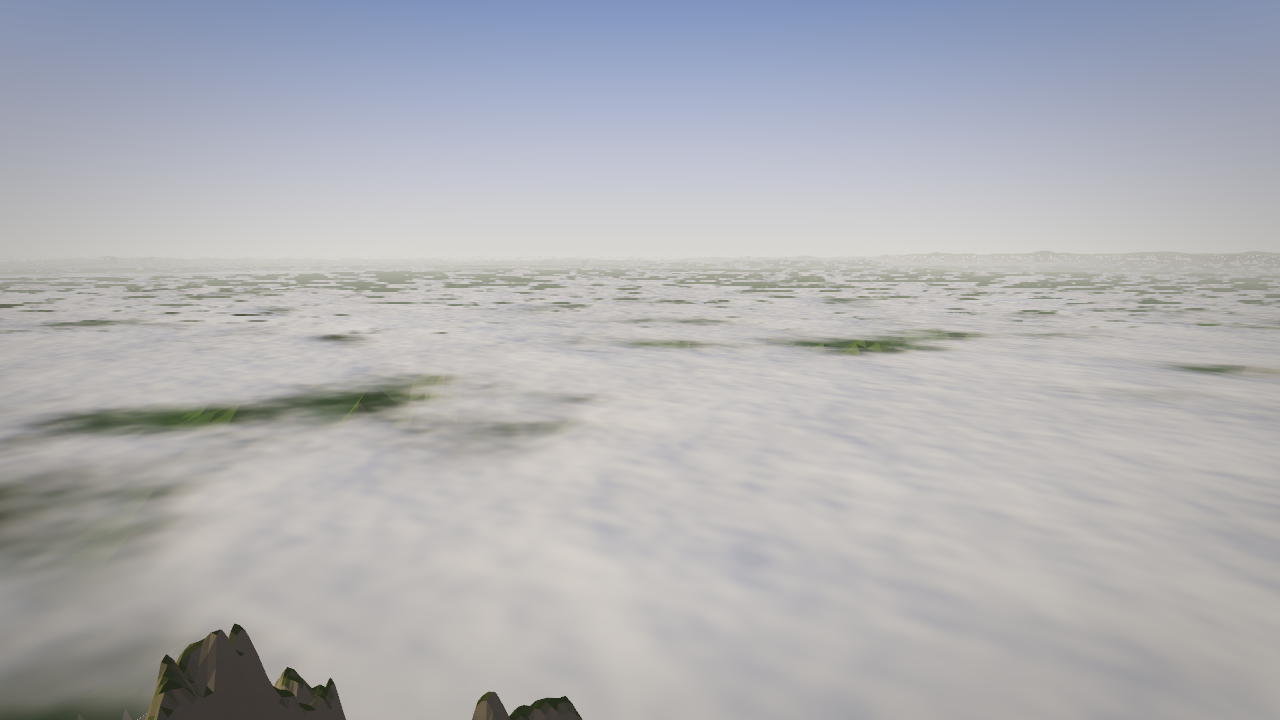
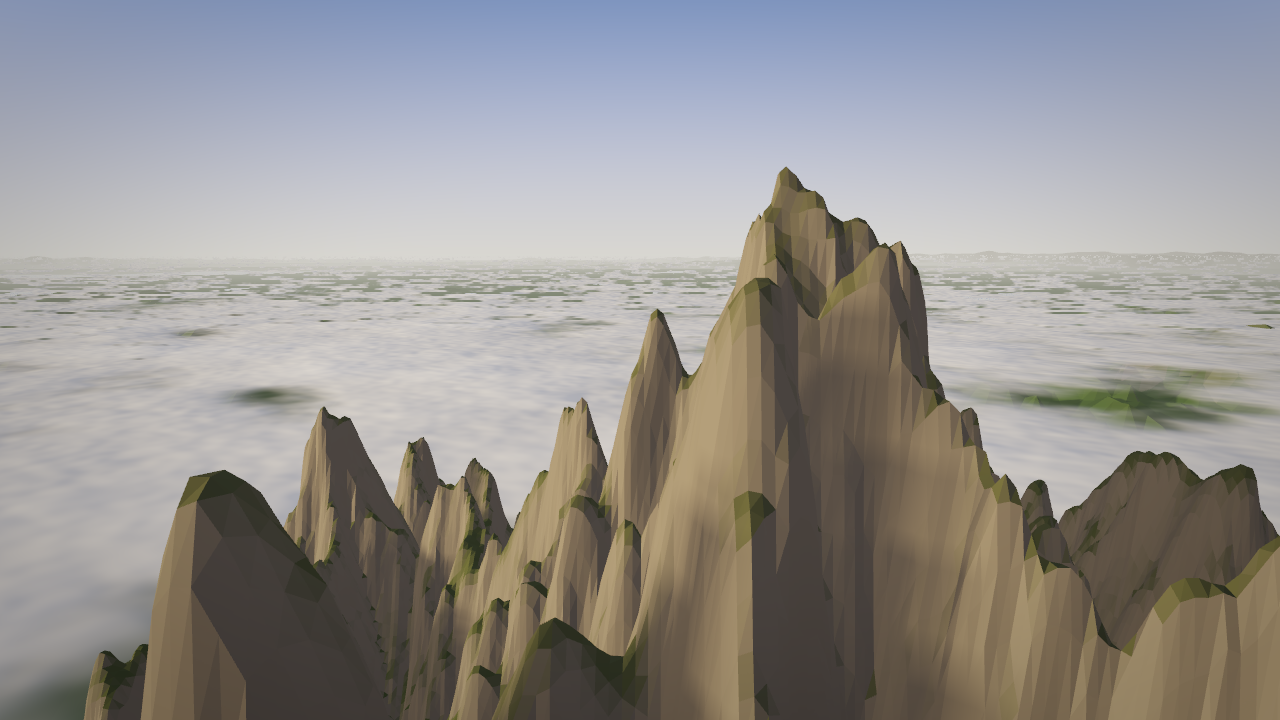
F81: the look-ahead is the scene's, and Huangshan flies among its peaks
A scene file may say look_ahead_km (default 8); the altitude controller
reads the heading line at eight even steps out to it. Huangshan reads
1.5 km with its massif keys 150 m up, so Lotus Peak stands above the
horizon in the still, now taken at 20 s. A swath across the heading was
tried and refused: it lifts the camera out of the gorges.

diff --git a/app/src/main.ts b/app/src/main.ts
@@ -440,7 +440,7 @@ function recordFrame(dt: number): void {
   r.northM += Math.cos(r.headingRad) * ms * dt;
   const s = film?.scenes[current] ?? null;
   const band = s?.band ?? { minM: 50, maxM: 6000 };
-  const alt = altitude.update(dt, r.eastM, r.northM, r.headingRad, r.aboveGroundM, band, groundAt);
+  const alt = altitude.update(dt, r.eastM, r.northM, r.headingRad, r.aboveGroundM, band, groundAt, s?.lookAheadKm);
   placeAt(r.eastM, r.northM, alt, r.headingRad, 0);
   const { latDeg, lonDeg } = unprojectAlbers(r.eastM, r.northM);
   el("recorder").textContent =
@@ -479,10 +479,11 @@ function frame(now: number): void {
     el("title").hidden = true;
     el("caption").textContent = "";
     if (pinned.aboveGroundM !== null) {
-      const band = film?.scenes[Math.max(0, current)]?.band ?? { minM: 50, maxM: 6000 };
+      const scene = film?.scenes[Math.max(0, current)];
+      const band = scene?.band ?? { minM: 50, maxM: 6000 };
       // Placed afresh, not eased: a zero step would hold the first frame's guess.
       altitude.reset();
-      pinned.altitudeM = altitude.update(0, pinned.eastM, pinned.northM, pinned.headingRad, pinned.aboveGroundM, band, groundAt);
+      pinned.altitudeM = altitude.update(0, pinned.eastM, pinned.northM, pinned.headingRad, pinned.aboveGroundM, band, groundAt, scene?.lookAheadKm);
     }
     placeAt(pinned.eastM, pinned.northM, pinned.altitudeM, pinned.headingRad, 0, pinned.clockMinutes, pinned.pitchDeg);
     rig.render();
@@ -508,7 +509,7 @@ function frame(now: number): void {
     // The map and the title over the first frame of the rail, which also
     // streams the ground the flight is about to need.
     const start = railAtKm(rails[current]!, 0);
-    const alt = altitude.update(0, start.eastM, start.northM, start.headingRad, start.aboveGroundM, s.band, groundAt);
+    const alt = altitude.update(0, start.eastM, start.northM, start.headingRad, start.aboveGroundM, s.band, groundAt, s.lookAheadKm);
     placeAt(start.eastM, start.northM, alt, start.headingRad, 0, clockNow(), start.pitchDeg);
     el("title").hidden = false;
     el("caption").textContent = "";
@@ -523,7 +524,7 @@ function frame(now: number): void {
     );
     lastState = state;
     lastFlightS = pos.flightS;
-    const alt = altitude.update(held ? 0 : dt, state.eastM, state.northM, state.headingRad, state.aboveGroundM, s.band, groundAt);
+    const alt = altitude.update(held ? 0 : dt, state.eastM, state.northM, state.headingRad, state.aboveGroundM, s.band, groundAt, s.lookAheadKm);
     placeAt(state.eastM, state.northM, alt, state.headingRad, state.bankRad, clockNow(), state.pitchDeg);
     el("caption").textContent = captionAt(s, pos.flightS);
     el("auto").classList.toggle("on", state.auto);
@@ -613,7 +614,7 @@ if (import.meta.env.DEV) {
       const fix = railAtKm(rail, km);
       const s = film!.scenes[i]!;
       altitude.reset();
-      const alt = altitude.update(0, fix.eastM, fix.northM, fix.headingRad, fix.aboveGroundM, s.band, groundAt);
+      const alt = altitude.update(0, fix.eastM, fix.northM, fix.headingRad, fix.aboveGroundM, s.band, groundAt, s.lookAheadKm);
       pinned = {
         eastM: fix.eastM,
         northM: fix.northM,

diff --git a/engine/src/film/altitude.ts b/engine/src/film/altitude.ts
@@ -4,25 +4,51 @@
  * before it arrives rather than at it, and moves smoothly, with a rate cap so
  * a step in the data is a rise on screen rather than a jump.
  *
+ * How far ahead it looks is the scene's to say (F79, F81): eight kilometres
+ * keeps the camera over everything on the plateau, while over a massif of
+ * spires it must be short, or the camera sits above every peak in reach and
+ * the scene is a map. A short look-ahead trusts the rate cap and the band's
+ * floor for the spire that arrives between samples.
+ *
+ * It reads along the heading line only. A swath out to the frame's edges
+ * was tried and refused (F81): in a gorge the walls beside the line are the
+ * picture, and a controller that climbs for them puts the camera at the
+ * band's ceiling for a third of the first bend.
+ *
  * Nobody can hit a mountain, dive into the sea, or drift into the sky: the
  * result is clamped to the scene's band above the ground directly below.
  */
 import type { Band } from "./scene.js";
 
 export interface AltitudeOptions {
-  /** Distances ahead along the heading the ground is read at, real km. */
-  readonly lookAheadKm: readonly number[];
+  /** How far ahead along the heading the ground is read, real km, unless the scene says. */
+  readonly lookAheadKm: number;
   /** Time constant of the approach to the target, seconds. */
   readonly tauS: number;
   /** The most the altitude may change in a second, real metres. */
   readonly maxRateMs: number;
 }
 
+/** The film's look-ahead unless a scene says otherwise, real km. */
+export const DEFAULT_LOOK_AHEAD_KM = 8;
+
 export const DEFAULT_ALTITUDE: AltitudeOptions = {
-  lookAheadKm: [0, 1.5, 4, 8],
+  lookAheadKm: DEFAULT_LOOK_AHEAD_KM,
   tauS: 2.5,
   maxRateMs: 400,
 };
+
+/** Ground reads per update beyond the one under the camera. */
+export const LOOK_AHEAD_SAMPLES = 8;
+
+/**
+ * Where the ground is read ahead of the camera: under it, and at even steps
+ * out to the look-ahead, so a short look-ahead over a 30 m grid reads every
+ * spire on the way rather than the ones its few samples happen to hit.
+ */
+export function lookAheadSamplesKm(farKm: number): readonly number[] {
+  return Array.from({ length: LOOK_AHEAD_SAMPLES + 1 }, (_, i) => (farKm * i) / LOOK_AHEAD_SAMPLES);
+}
 
 /** The ground at a point, or null where no tile is resident yet. */
 export type GroundReader = (eastM: number, northM: number) => number | null;
@@ -53,6 +79,7 @@ export class AltitudeController {
     aboveGroundM: number,
     band: Band,
     ground: GroundReader,
+    lookAheadKm: number = this.options.lookAheadKm,
   ): number {
     const o = this.options;
     const here = ground(eastM, northM);
@@ -64,7 +91,7 @@ export class AltitudeController {
     let highest = under;
     const fe = Math.sin(headingRad);
     const fn = Math.cos(headingRad);
-    for (const km of o.lookAheadKm) {
+    for (const km of lookAheadSamplesKm(lookAheadKm)) {
       if (km === 0) continue;
       const g = ground(eastM + fe * km * 1000, northM + fn * km * 1000);
       if (g !== null && g > highest) highest = g;

diff --git a/content/scenes.ts b/content/scenes.ts
@@ -24,6 +24,7 @@ import {
   type RailKey,
   type Scene,
 } from "../engine/src/film/scene.js";
+import { DEFAULT_LOOK_AHEAD_KM } from "../engine/src/film/altitude.js";
 import { DEFAULT_RAIL } from "../engine/src/film/rail.js";
 import { FLIGHT_S } from "../engine/src/film/timeline.js";
 import { dayOfYear, sunPosition } from "../engine/src/gfx/solar.js";
@@ -39,6 +40,8 @@ export const CAPTION_SHOW_S = 6;
 export const SCENES_IN_A_FILM = 9;
 /** How far below level the camera looks unless the scene says otherwise. */
 export const DEFAULT_PITCH_DEG = 6;
+/** The look-ahead a scene may ask for, real km: shorter reads as a wall, longer as a map. */
+export const LOOK_AHEAD_RANGE_KM = [0.5, 30] as const;
 /** The sun may be this far below the horizon at the scene's first key: civil twilight. */
 export const MIN_SUN_ELEVATION_DEG = -6;
 
@@ -107,6 +110,13 @@ export function sceneFromRaw(raw: unknown, name: string): { scene: Scene | null;
   if (raw.pitch_deg !== undefined) {
     if (isNum(raw.pitch_deg) && raw.pitch_deg >= 0 && raw.pitch_deg <= 45) pitchDeg = raw.pitch_deg;
     else add("pitch_deg", "degrees below level, 0 to 45");
+  }
+
+  let lookAheadKm = DEFAULT_LOOK_AHEAD_KM;
+  if (raw.look_ahead_km !== undefined) {
+    if (isNum(raw.look_ahead_km) && raw.look_ahead_km >= LOOK_AHEAD_RANGE_KM[0] && raw.look_ahead_km <= LOOK_AHEAD_RANGE_KM[1])
+      lookAheadKm = raw.look_ahead_km;
+    else add("look_ahead_km", `real kilometres the altitude reads ahead, ${LOOK_AHEAD_RANGE_KM[0]} to ${LOOK_AHEAD_RANGE_KM[1]}`);
   }
 
   const rail: RailKey[] = [];
@@ -178,6 +188,7 @@ export function sceneFromRaw(raw: unknown, name: string): { scene: Scene | null;
     band,
     corridorDeg,
     pitchDeg,
+    lookAheadKm,
     look,
     captions,
     music,

diff --git a/tools/rails.ts b/tools/rails.ts
@@ -42,7 +42,13 @@ interface RailReport {
   readonly ceilingHits: number;
 }
 
-function fly(corridor: Corridor, id: string, scene: Parameters<typeof buildRail>[0], band: { minM: number; maxM: number }): RailReport {
+function fly(
+  corridor: Corridor,
+  id: string,
+  scene: Parameters<typeof buildRail>[0],
+  band: { minM: number; maxM: number },
+  lookAheadKm: number,
+): RailReport {
   const rail = buildRail(scene);
   const controller = new AltitudeController();
   const ground = (e: number, n: number): number | null => (corridor.covers(e, n) ? corridor.drawnAt(e, n) : null);
@@ -62,7 +68,7 @@ function fly(corridor: Corridor, id: string, scene: Parameters<typeof buildRail>
   for (let m = 0; m <= totalM; m += STEP_M) {
     const fix = railAtKm(rail, m / 1000);
     const dt = lastAlt === null ? 0 : STEP_M / ((fix.kmPerMin * 1000) / 60);
-    const alt = controller.update(dt, fix.eastM, fix.northM, fix.headingRad, fix.aboveGroundM, band, ground);
+    const alt = controller.update(dt, fix.eastM, fix.northM, fix.headingRad, fix.aboveGroundM, band, ground, lookAheadKm);
     lastAlt = alt;
     samples++;
     if (!corridor.covers(fix.eastM, fix.northM)) {
@@ -147,7 +153,7 @@ if (problems.length > 0) {
   console.error(`film problems:\n${formatProblems(problems)}`);
   process.exit(1);
 }
-const reports = film.scenes.map((s) => fly(corridor, s.id, s.rail, s.band));
+const reports = film.scenes.map((s) => fly(corridor, s.id, s.rail, s.band, s.lookAheadKm));
 const text = render(worldDir, reports);
 mkdirSync("docs", { recursive: true });
 writeFileSync("docs/rails-report.md", text);

diff --git a/test/film/altitude.test.ts b/test/film/altitude.test.ts
@@ -4,7 +4,7 @@
  * leave the scene's band.
  */
 import { describe, expect, it } from "vitest";
-import { AltitudeController, DEFAULT_ALTITUDE } from "../../engine/src/film/altitude.js";
+import { AltitudeController, DEFAULT_ALTITUDE, lookAheadSamplesKm } from "../../engine/src/film/altitude.js";
 
 const band = { minM: 100, maxM: 2000 };
 const north = 0;
@@ -26,6 +26,16 @@ describe("the altitude controller", () => {
     let a = after;
     for (let i = 0; i < 20; i++) a = c.update(1, 0, 0, north, 300, band, ground);
     expect(a).toBeCloseTo(1300, 0);
+  });
+
+  it("reads only as far ahead as the scene says, so a short look-ahead flies among peaks a long one flies over", () => {
+    const ridge = (_e: number, n: number) => (n >= 3_500 && n <= 4_500 ? 1000 : 100);
+    const far = new AltitudeController();
+    expect(far.update(0, 0, 0, north, 300, band, ridge, 8)).toBe(1300);
+    const near = new AltitudeController();
+    expect(near.update(0, 0, 0, north, 300, band, ridge, 1.5)).toBe(400);
+    // Reads under the camera and at even steps out to the distance.
+    expect(lookAheadSamplesKm(8)).toEqual([0, 1, 2, 3, 4, 5, 6, 7, 8]);
   });
 
   it("never moves faster than the rate cap", () => {

diff --git a/test/film/scenes.test.ts b/test/film/scenes.test.ts
@@ -110,6 +110,13 @@ describe("what the gate refuses", () => {
     expect(problemsOf(good(), "other").map((p) => p.field)).toEqual(["id"]);
   });
 
+  it("a look-ahead that would read as a wall or as a map; eight kilometres unless the scene says", () => {
+    expect(sceneFromRaw(good(), "gorges").scene!.lookAheadKm).toBe(8);
+    expect(sceneFromRaw(good({ look_ahead_km: 1.5 }), "gorges").scene!.lookAheadKm).toBe(1.5);
+    expect(problemsOf(good({ look_ahead_km: 0.1 })).map((p) => p.field)).toEqual(["look_ahead_km"]);
+    expect(problemsOf(good({ look_ahead_km: "far" })).map((p) => p.field)).toEqual(["look_ahead_km"]);
+  });
+
   it("a hero grid the world has not built, when there is a world to ask", () => {
     const { scene } = sceneFromRaw(good({ hero: "everest" }), "gorges");
     expect(validateScene(scene!, { heroBuilt: () => false }).map((p) => p.field)).toEqual(["hero"]);

diff --git a/tools/stations.ts b/tools/stations.ts
@@ -50,7 +50,7 @@ const stations = film.scenes.map((s) => {
   const ground = (e: number, n: number): number | null => (corridor.covers(e, n) ? corridor.drawnAt(e, n) : null);
   const groundM = ground(fix.eastM, fix.northM) ?? 0;
   const controller = new AltitudeController();
-  const altitudeM = controller.update(0, fix.eastM, fix.northM, fix.headingRad, fix.aboveGroundM, s.band, ground);
+  const altitudeM = controller.update(0, fix.eastM, fix.northM, fix.headingRad, fix.aboveGroundM, s.band, ground, s.lookAheadKm);
   return {
     id: s.id,
     km: Math.round(km * 10) / 10,

diff --git a/engine/src/film/scene.ts b/engine/src/film/scene.ts
@@ -66,6 +66,13 @@ export interface Scene {
    * times relief the river is under the frame's bottom edge otherwise.
    */
   readonly pitchDeg: number;
+  /**
+   * How far ahead along the heading the altitude controller reads the
+   * ground, real km. Eight is the film's default; a massif of spires wants
+   * one or two, so the camera flies among its peaks rather than over the
+   * highest of them (F81).
+   */
+  readonly lookAheadKm: number;
   readonly look: SceneLook;
   readonly captions: readonly Caption[];
   readonly music: string | null;

diff --git a/docs/findings.md b/docs/findings.md
@@ -342,3 +342,63 @@ instrument's ±2.3 ms can see; their differences came out on both sides of
 zero. An M1 is roughly half this GPU, so 8 to 10 ms there, which is the
 budget or a little over it; the post pass's resolution is the lever, and
 a phone will be measured by wall clock as the plan says.
+
+## F81 — Huangshan flies among its peaks, 23 September 2026
+
+**The change.** How far ahead the altitude controller reads the ground is
+now the scene's to say: `look_ahead_km` in the scene file, eight unless
+the scene says, 0.5 to 30. The controller reads the ground under the
+camera and at eight even steps out to that distance, instead of at 1.5,
+4 and 8 km; the even steps see every ridge on the way, and moved the
+other eight scenes by tens of metres, all towards fewer floor hits.
+Huangshan reads 1.5 km, its keys over the massif fly 150 m over the
+highest ground in that reach, and its band floor is 150 m. The still is
+taken at twenty seconds now, not thirty: at 22 km a minute, thirty
+seconds is 11 km in and already past Bright Summit, with the ground
+ahead dropping under the deck and nothing in the frame but cloud.
+
+**What the frames said.** Held at 16, 20 and 24 s:
+
+- At 16 s the frame is a wall. It is not a spire beside the line that the
+  controller missed; it is the massif's southern front 1 to 2 km ahead,
+  which at six times relief fills the frame from the deck to its top. The
+  controller starts climbing it when it enters the reach, 4 s out at
+  22 km a minute, and the frame-rate walk of the rail has the camera
+  under ground within 1 km on 4 % of frames by at most 71 m, at the
+  band's floor 1 % of the time, never faster than 253 m/s. The massif
+  looms and the camera rises over its rim into the spires; that is the
+  opening.
+- At 20 s the camera is at 1,779 m with Lotus Peak ahead across the
+  horizon and the spires falling away to the cloud on both sides. That is
+  the still.
+- At 24 s the camera is at 1,850 m and the frame is cloud, with the
+  spires just passed at its bottom edge: at 1:8 anything within a
+  kilometre and below the camera is under the frame's bottom, which is
+  41° down at pitch 10.
+
+**One kilometre was tried too.** It puts the 20 s camera at 1,607 m, in a
+slot between two walls with the cloud sea through the gap: among the
+peaks to the letter, and no massif in the frame. The walk is rougher as
+well, under ground within 1 km on 6 % of frames by up to 254 m at
+317 m/s. A kilometre and a half shows the massif and flies it smoothly.
+
+**A swath was tried and refused.** Reading the ground on five lanes out to
+24° either side of the heading, on the argument that a spire 200 m
+beside the line stands in the middle of a frame 94° wide, put the
+three-gorges station from 814 to 1,193 m and the first bend at its
+ceiling 29 % of the time: in a gorge the walls beside the line are the
+picture, and a controller that climbs for them takes the camera out of
+the gorge. At Huangshan it bought nothing the eye could see, since the
+wall at 16 s is on the line. The controller reads the line.
+
+**Two lessons for the stills.** A hold placed before the hero tiles have
+landed reads the ground as null, and the camera sits at the band's floor
+over nothing: three stills came back byte-identical at 150 m before the
+tiles were given twenty seconds. And a vite restart, which any engine
+edit causes, refetches the whole country; a still after one needs the
+same patience.
+
+**Rails report.** Huangshan: 89 km, 242 s at authored speed, 150 to
+1,383 m above ground, ground ahead above the camera on 2 % of samples by
+up to 160 m, at the floor 2 %. The first bend sits at its 1,600 m ceiling
+11 % of the way, which is the band chosen in F79, not this change.

diff --git a/docs/rails-report.md b/docs/rails-report.md
@@ -8,12 +8,12 @@ The flight is 114 s; a viewer at double speed needs twice that of rail.
 
 | Scene | Rail | At authored speed | Over hero grid | Off world | Above ground | Altitude | Ground ahead | Worst ahead | At floor | At ceiling |
 | --- | ---: | ---: | ---: | ---: | ---: | ---: | ---: | ---: | ---: | ---: |
-| huangshan | 84 km | 230 s | 97 % | 0 | 476–1652 m | 1184–2281 m | 0 % | 0 m | 0 % | 0 % |
-| three-gorges | 576 km | 384 s | 25 % | 0 | 120–900 m | 397–1691 m | 1 % | 326 m | 1 % | 0 % |
-| karst | 139 km | 234 s | 52 % | 0 | 123–636 m | 353–977 m | 0 % | 0 m | 0 % | 0 % |
-| first-bend | 199 km | 239 s | 47 % | 0 | 933–2500 m | 3037–4855 m | 0 % | 0 m | 0 % | 1 % |
-| loess | 714 km | 238 s | 0 % | 0 | 538–790 m | 935–1759 m | 0 % | 0 m | 0 % | 0 % |
-| grassland-to-heaven-lake | 938 km | 344 s | 17 % | 0 | 300–1017 m | 617–2770 m | 0 % | 0 m | 0 % | 0 % |
-| below-the-sea | 1168 km | 234 s | 5 % | 0 | 304–2500 m | 508–6012 m | 0 % | 0 m | 0 % | 0 % |
-| the-roof | 1417 km | 236 s | 0 % | 0 | 500–2141 m | 4400–6819 m | 0 % | 0 m | 0 % | 0 % |
-| the-wall | 272 km | 272 s | 16 % | 0 | 792–3000 m | 1876–9733 m | 0 % | 0 m | 0 % | 0 % |
+| huangshan | 89 km | 242 s | 100 % | 0 | 150–1383 m | 971–2289 m | 2 % | 160 m | 2 % | 0 % |
+| three-gorges | 576 km | 384 s | 25 % | 0 | 120–900 m | 460–1691 m | 1 % | 275 m | 0 % | 0 % |
+| karst | 139 km | 234 s | 52 % | 0 | 151–704 m | 369–1009 m | 0 % | 0 m | 0 % | 0 % |
+| first-bend | 199 km | 239 s | 47 % | 0 | 763–1600 m | 3141–4719 m | 0 % | 0 m | 0 % | 11 % |
+| loess | 714 km | 238 s | 0 % | 0 | 547–807 m | 935–1767 m | 0 % | 0 m | 0 % | 0 % |
+| grassland-to-heaven-lake | 915 km | 389 s | 15 % | 0 | 300–972 m | 618–2954 m | 0 % | 0 m | 0 % | 0 % |
+| below-the-sea | 1168 km | 234 s | 5 % | 0 | 306–2500 m | 508–6134 m | 0 % | 0 m | 0 % | 0 % |
+| the-roof | 1417 km | 236 s | 0 % | 0 | 500–2167 m | 4402–6832 m | 0 % | 0 m | 0 % | 0 % |
+| the-wall | 272 km | 272 s | 16 % | 0 | 818–3000 m | 1906–9846 m | 0 % | 0 m | 0 % | 0 % |

diff --git a/docs/stills/README.md b/docs/stills/README.md
@@ -4,8 +4,9 @@ One still a scene, the frame the look is signed off on (design v2, "The
 look"; plan v2, stage 3, D77). Each is the scene held at a second into its
 flight on its rail in auto, at the scene's own hour, drawn at 1280 × 720
 through every pass of the look, and taken from the running app. Sixty
-seconds unless the scene's picture is elsewhere: Huangshan at thirty, over
-Lotus Peak; Heaven Lake at 108, the first crossing of the crater.
+seconds unless the scene's picture is elsewhere: Huangshan at twenty, with
+Lotus Peak ahead across the horizon; Heaven Lake at 108, the first crossing
+of the crater.
 
 ```
 npm run dev                       # the film, with the world under dist-world/china
@@ -14,8 +15,12 @@ npm run dev                       # the film, with the world under dist-world/ch
 then in the browser console, scene by scene (`i` is the scene's index from 0):
 
 ```
-__ns.hold(i, 60); await __ns.still("0N-<id>", 1280, 720)   // 30 for scene 1, 108 for scene 6
+__ns.hold(i, 60); await __ns.still("0N-<id>", 1280, 720)   // 20 for scene 1, 108 for scene 6
 ```
+
+Give a hold ten seconds after a jump before taking the still: the hero
+tiles have to land, and a still taken over unloaded ground has the camera
+at the band's floor over nothing (F81).
 
 A still is re-taken whenever the look or the scene changes, and committed
 beside the change, so the look cannot drift without a diff. The frame-cost

diff --git a/Nine Skies — Game Design Document.md b/Nine Skies — Game Design Document.md
@@ -109,7 +109,10 @@ once and lets go still sees the end of the scene. The Auto badge on screen
 lights when the rail is flying.
 
 **Direction is heading only.** Altitude is automatic: the camera holds an
-authored band above the ground, following the terrain smoothly. Nobody can hit
+authored band above the ground, following the terrain smoothly, climbing for
+the ground it reads ahead along its heading. How far ahead is the scene's to
+say: eight kilometres over the plateau, one and a half over Huangshan, so the camera
+flies among the spires rather than over the highest of them. Nobody can hit
 a mountain, dive into the sea, or drift into the sky. Each rail also carries a
 heading corridor, the widest the camera may turn away from the rail's own
 direction, so the viewer can look at the other wall of the gorge but cannot
